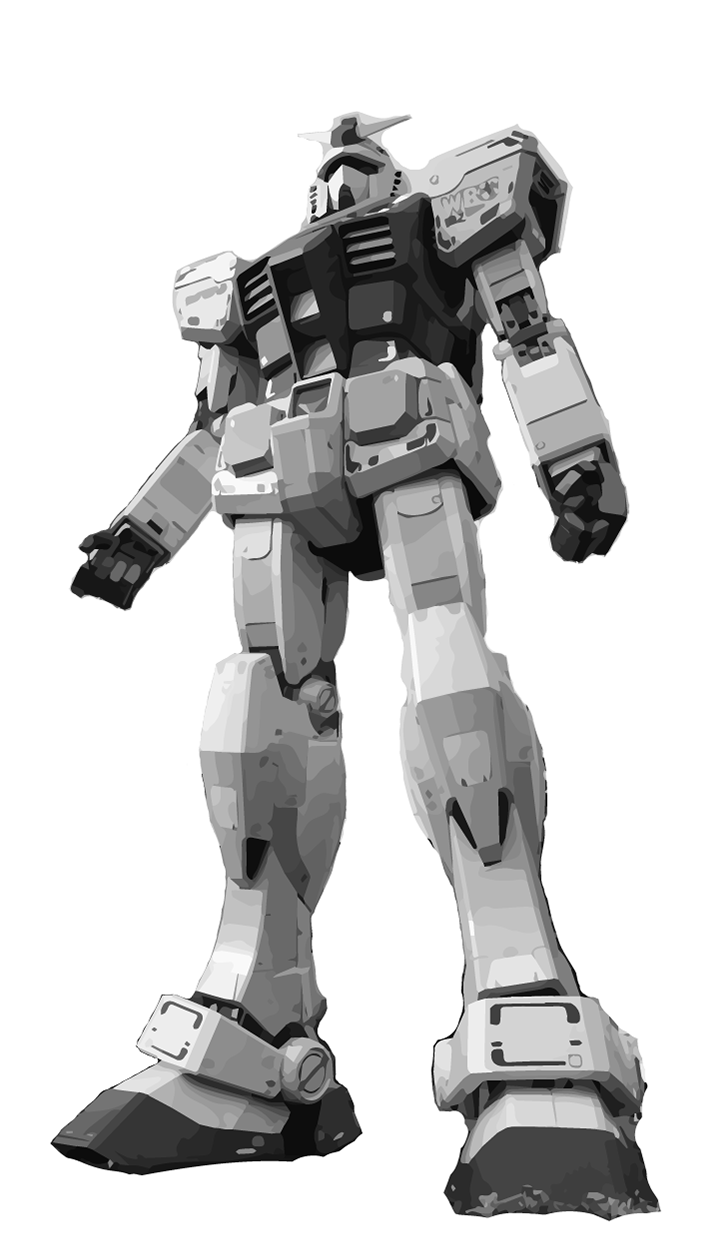
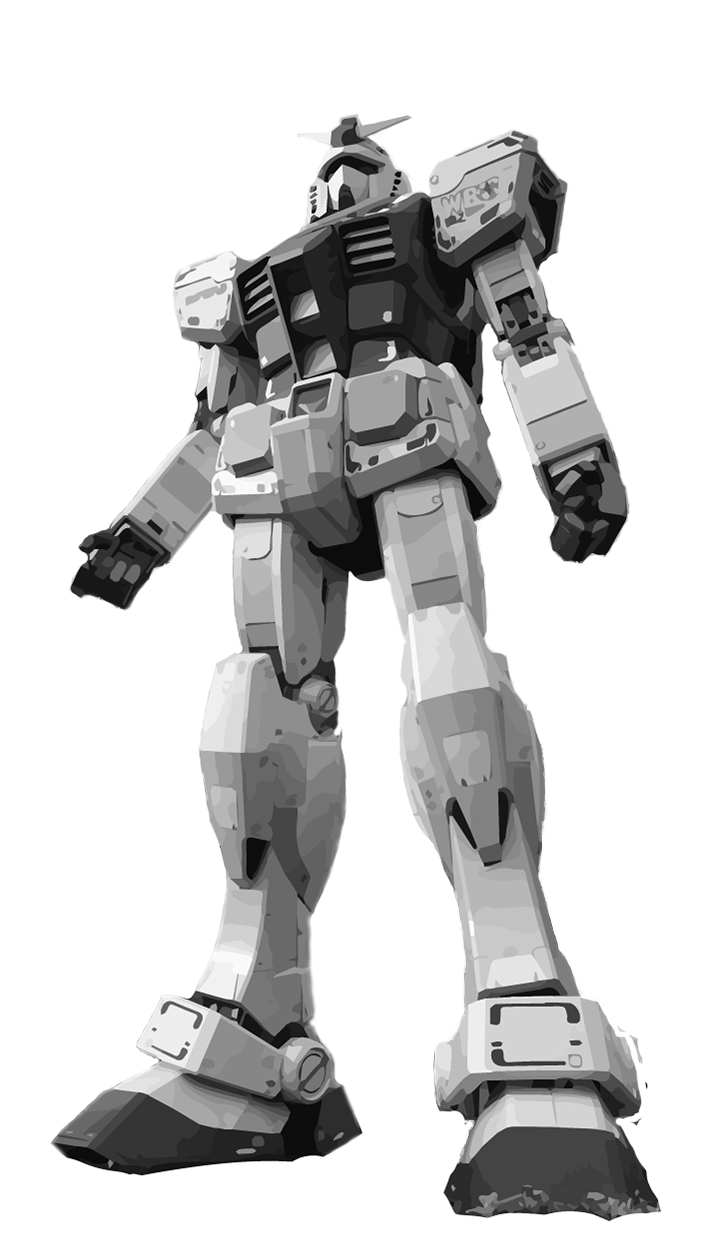
Added Random rotation.

diff --git a/sketch.js b/sketch.js
@@ -24,7 +24,7 @@ function preload() {
 function setup () {
   let main_canvas = createCanvas(704, 1252);
   main_canvas.parent('canvasContainer');
-
+angleMode(DEGREES)
   imageMode(CENTER);
   noStroke();
   background(255);
@@ -56,13 +56,45 @@ function setup () {
 //   }
 
 
-const tile_width = 12;
-const tile_height = 18;
-const tile_step_x = 5;
-const tile_step_y = 30;
+// const tile_width = 12;
+// const tile_height = 18;
+// const tile_step_x = 5;
+// const tile_step_y = 30;
+
+// function draw () {
+//   for(let i2=0;i2<52000;i2++) {
+//     let x = floor(random(sourceImg.width));
+//     let y = floor(random(sourceImg.height));
+//     let pix = sourceImg.get(x, y);
+//     let mask = maskImg.get(x, y);
+//     let pointSize = 4;
+//     let halfSize = 180;
+//     fill(pix);
+//     if(mask[0] < 254) {
+//       stroke(pix);
+//       noFill();
+//       // rect(x, y, pointSize, pointSize);
+//         // ellipse(x, y, pointSize, pointSize);
+//         rect(x, y, tile_step_x, tile_step_y);
+//         var die = int(random(0, 4));
+//         if (die == 0) {
+//           var gray = int(random(0, 102));
+//           var scalar = random(0.2, 0.45);
+//           // owl(x, y, gray, scalar);          
+//         }
+//       }
+//     // }
+//     else {  
+//         console.log(pix);
+//         stroke(pix[0]+50);  
+//       noFill();
+//    ellipse(x, y, pointSize, pointSize);
+//     }
+//   }
+
 
 function draw () {
-  for(let i2=0;i2<52000;i2++) {
+  for(let i2=0;i2<4000;i2++) {
     let x = floor(random(sourceImg.width));
     let y = floor(random(sourceImg.height));
     let pix = sourceImg.get(x, y);
@@ -75,17 +107,19 @@ function draw () {
       noFill();
       // rect(x, y, pointSize, pointSize);
         // ellipse(x, y, pointSize, pointSize);
-        rect(x, y, tile_step_x, tile_step_y);
-        var die = int(random(0, 4));
-        if (die == 0) {
-          var gray = int(random(0, 102));
-          var scalar = random(0.2, 0.45);
-          // owl(x, y, gray, scalar);          
+        push()
+        translate(x,y)
+        rotate(random(80 , 270)); 
+        rect(0, 0, 5, 100);
+        pop()
+          // triangle(x-40, y-40, x+20, y+20,x+30, y+30);  
+          // triangle(x+40, y+40, x-20, y-20,x-30, y-30);  
+ 
+               
         }
-      }
-    // }
+      
     else {  
-        console.log(pix);
+        // console.log(pix);
         stroke(pix[0]+50);  
       noFill();
    ellipse(x, y, pointSize, pointSize);
